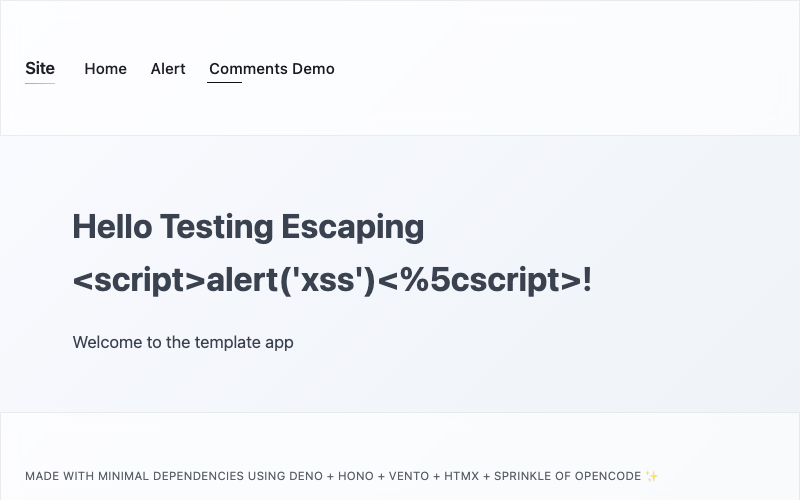
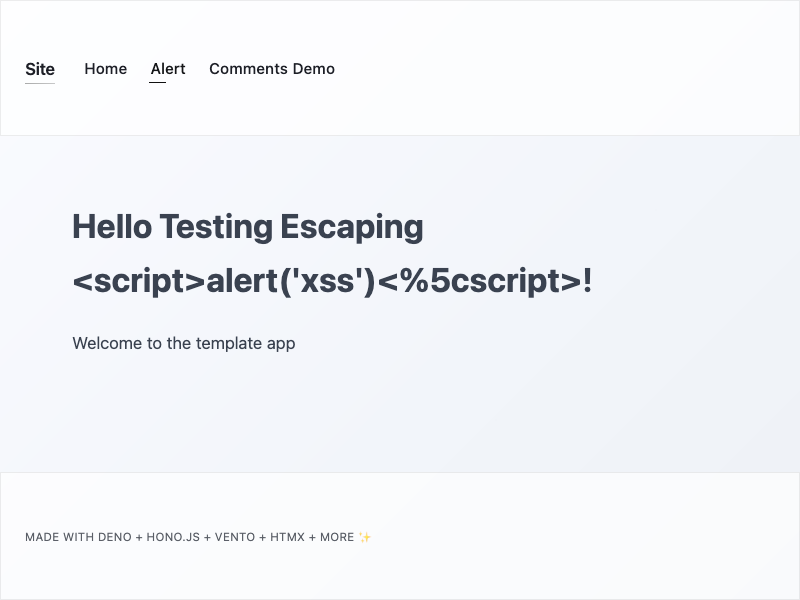
refactor: improve screenshots determinism and other small changes

diff --git a/tests/e2e/comments.spec.ts b/tests/e2e/comments.spec.ts
@@ -1,6 +1,6 @@
 import { expect, test } from "./fixtures.ts"
 
-test("comment demo works", async ({ page }) => {
+test("comment demo works", async ({ page, browserName }) => {
   await page.goto("/comments")
   await expect(page.locator("h1")).toContainText("Comments")
 
@@ -10,7 +10,7 @@ test("comment demo works", async ({ page }) => {
   await page.waitForSelector("#comments-list li")
 
   const testAuthor = "Test User"
-  const testBody = "This is a test comment for optimistic replacement"
+  const testBody = `This is a comment from ${browserName} to test optimistic replacement!`
   await page.fill("#author", testAuthor)
   await page.fill("#body", testBody)
 
@@ -29,8 +29,10 @@ test("comment demo works", async ({ page }) => {
   await expect(optimisticComment.locator('[data-field="time"]')).toContainText("(sending…)")
   await page.waitForSelector(".c-comment--optimistic", { state: "detached" })
 
-  await page.setViewportSize({ width: 800, height: 1000 })
-  await page.screenshot({ path: ".github/screenshots/comments-sending.png" })
+  if (browserName === "firefox") { // Deterministically generate with `deno task test:e2e --project=firefox`
+    await page.setViewportSize({ width: 800, height: 1000 })
+    await page.screenshot({ path: ".github/screenshots/comments-sending.png" })
+  }
 
   const commentsList = page.locator("#comments-list")
   const firstComment = commentsList.locator("li").first()

diff --git a/tests/e2e/app.spec.ts b/tests/e2e/app.spec.ts
@@ -1,12 +1,14 @@
 import { expect, test } from "./fixtures.ts"
 
-test("navigation works", async ({ page }) => {
+test("navigation works", async ({ page, browserName }) => {
   await page.goto("/")
 
   await page.click("text=Alert")
   await expect(page).toHaveURL(/.+xss.+/)
   await expect(page.locator("h1").first()).toContainText("xss")
 
-  await page.setViewportSize({ width: 800, height: 500 })
-  await page.screenshot({ path: ".github/screenshots/home-xss.png" })
+  if (browserName === "firefox") {
+    await page.setViewportSize({ width: 800, height: 600 })
+    await page.screenshot({ path: ".github/screenshots/home-xss.png" })
+  }
 })
